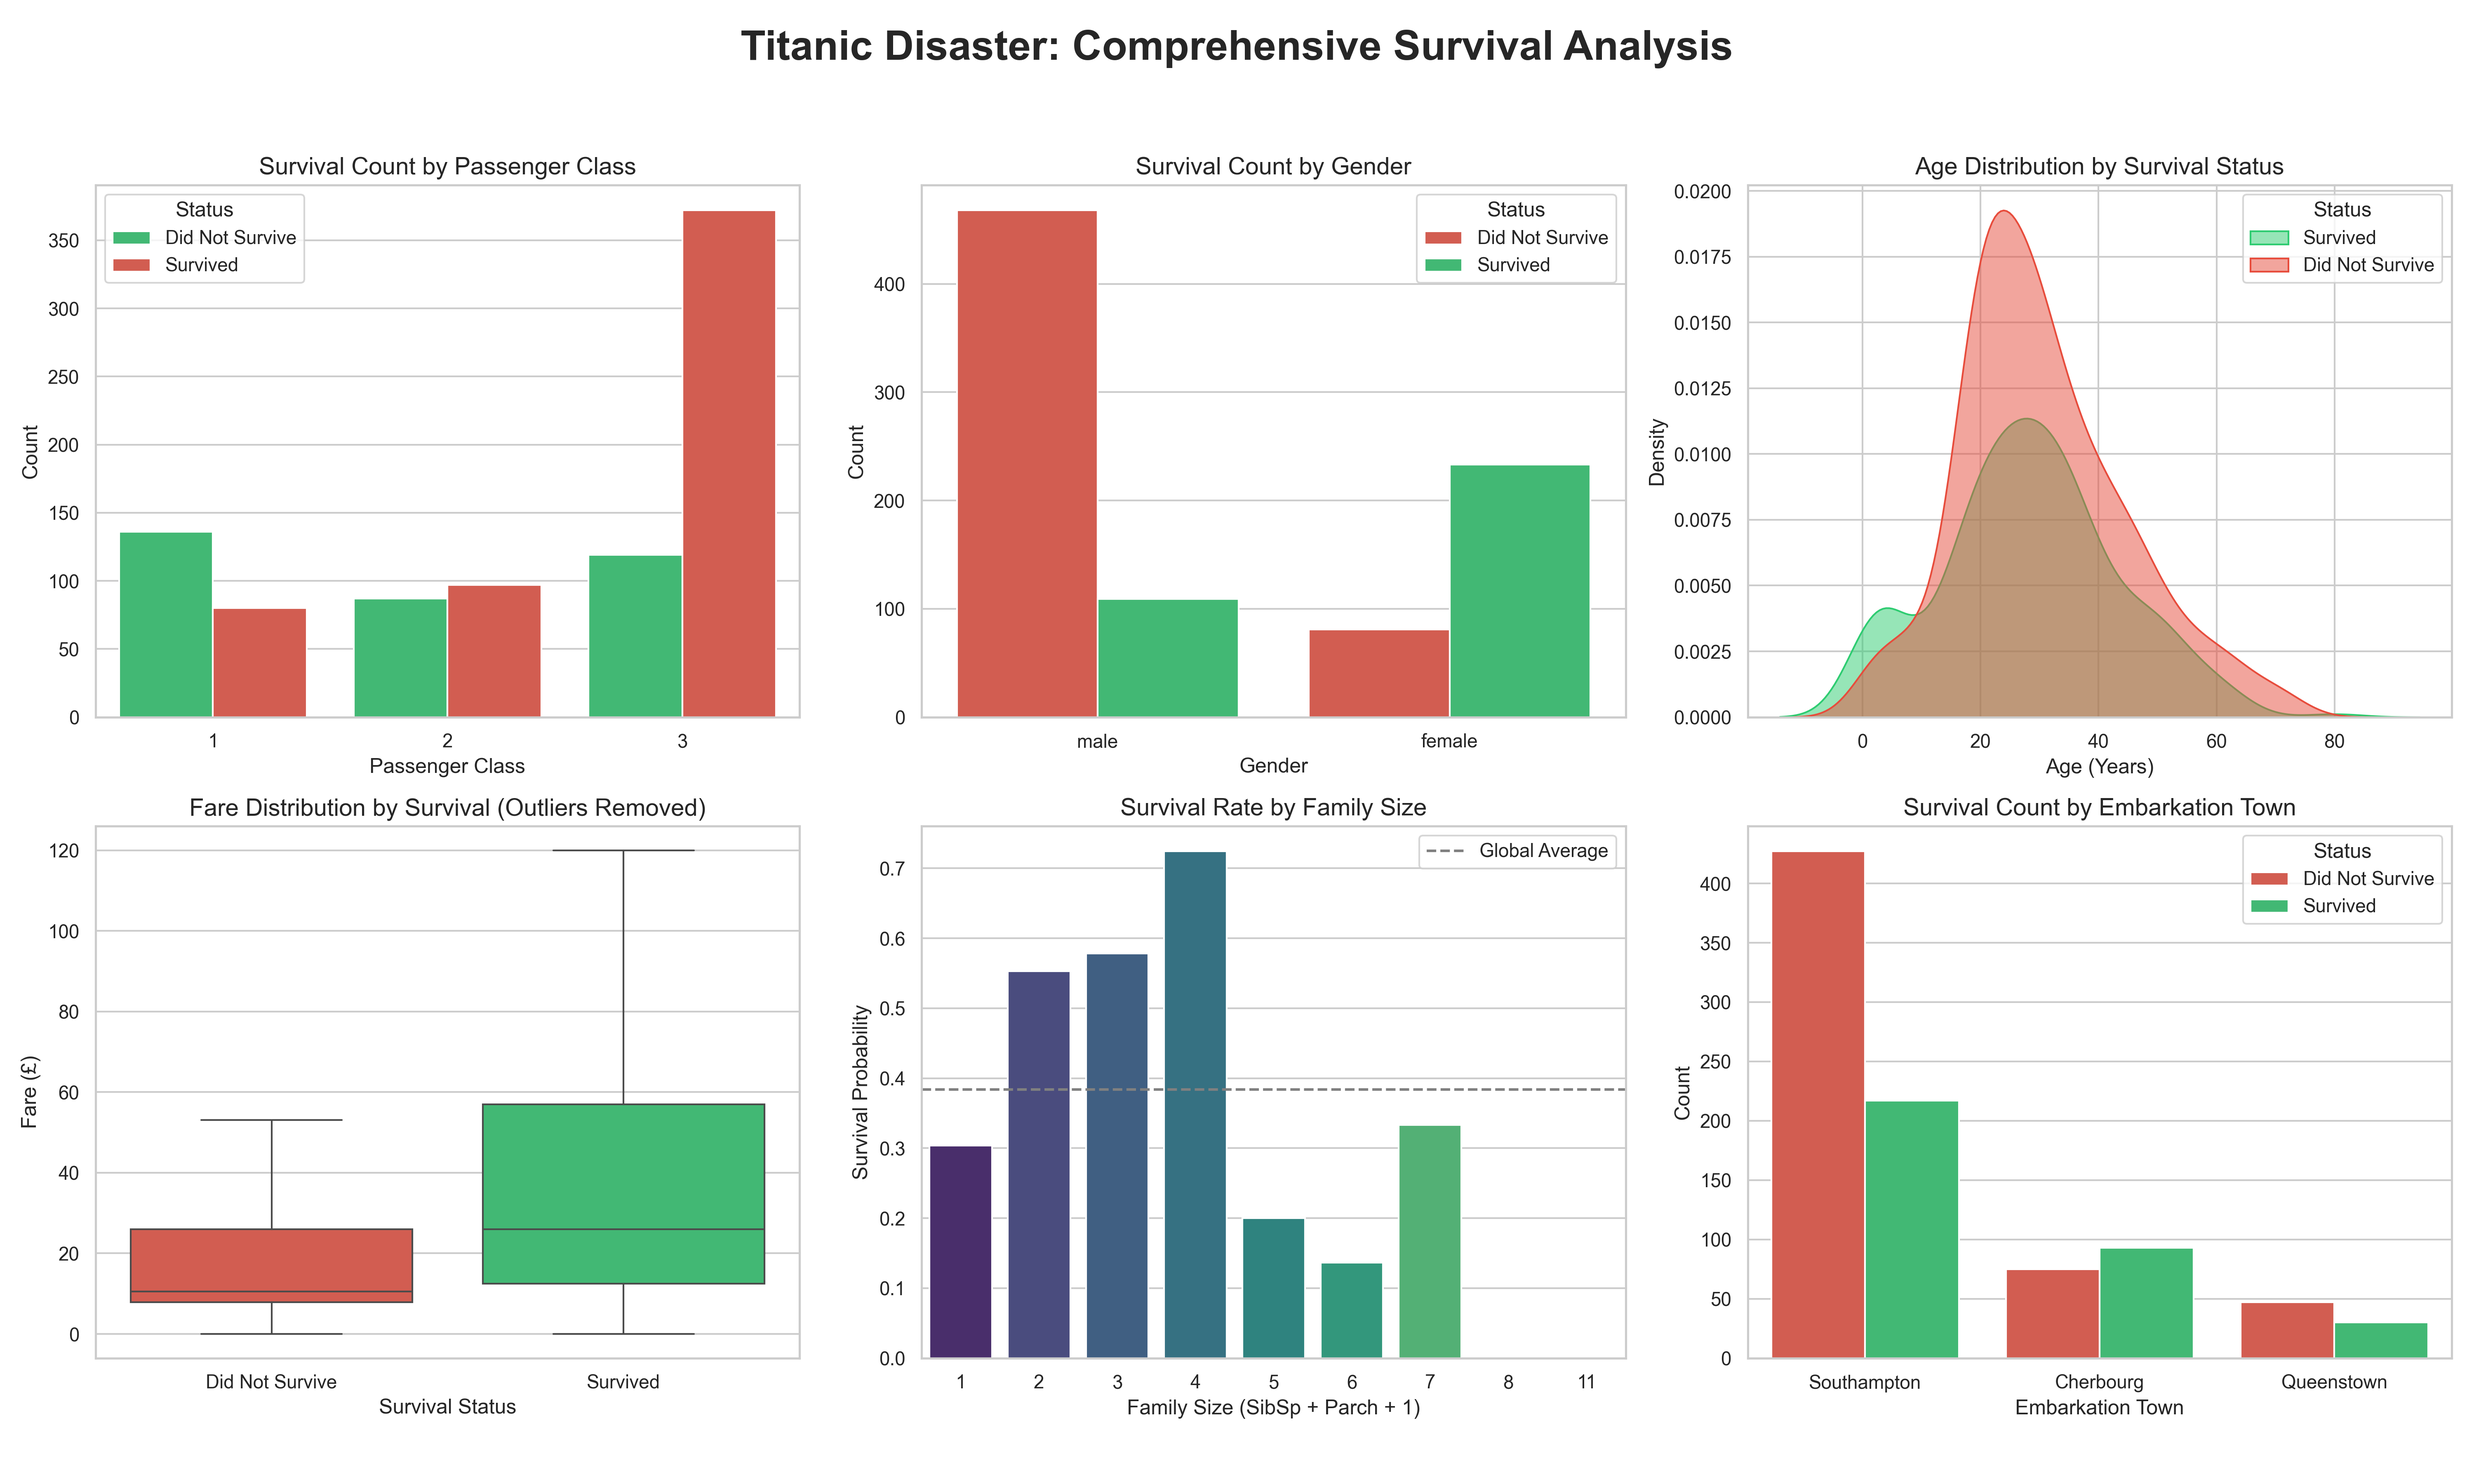
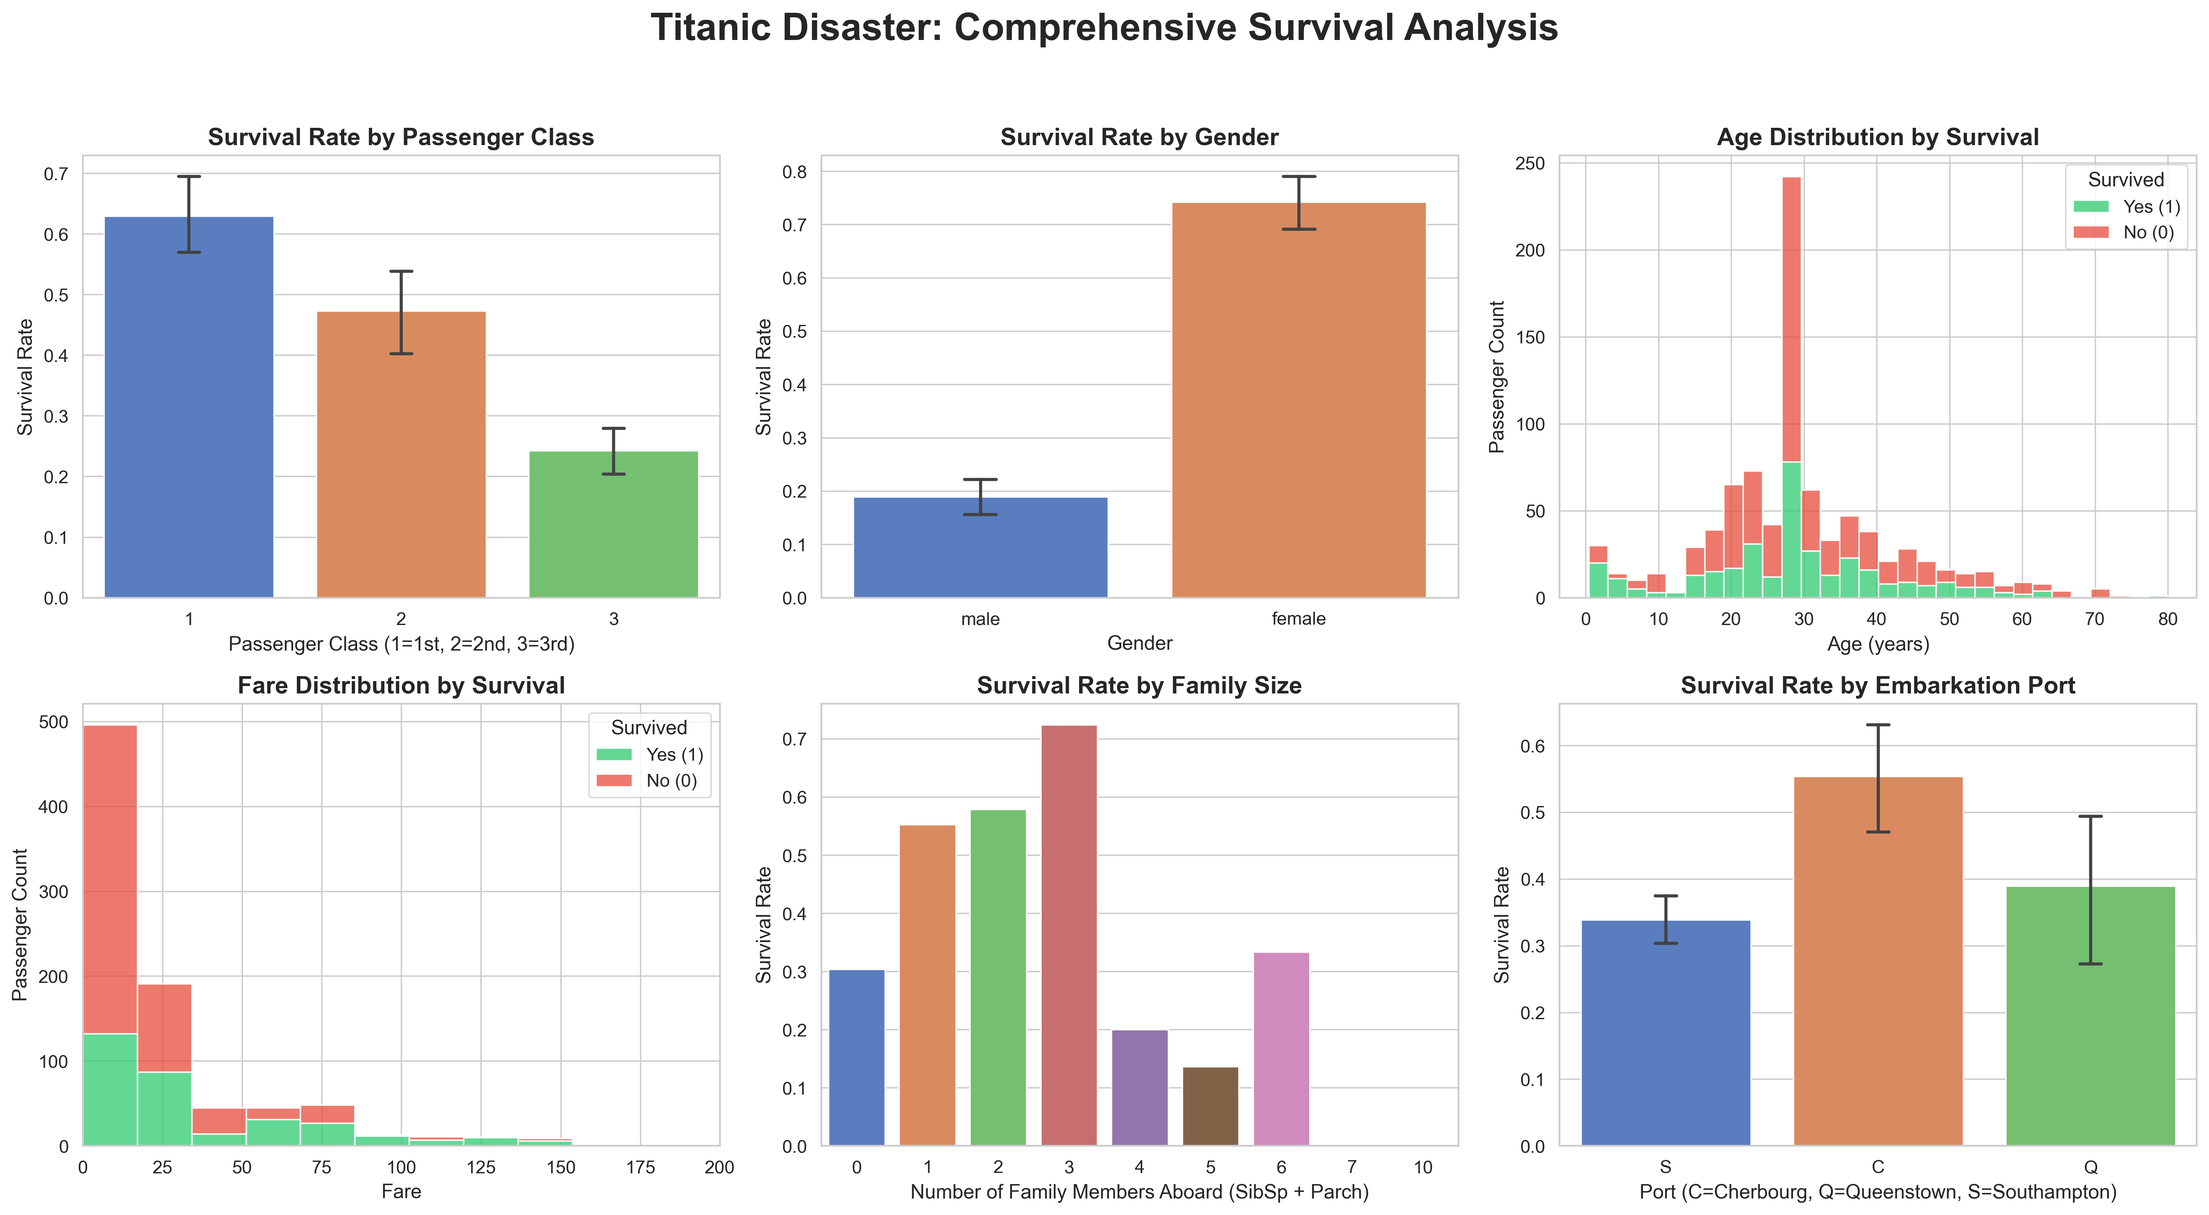
Add Gemini3 Pro Titanic dashboard rich context results (3 runs) | Poor: ΔE=25.51, Entropy=1.263, Exec=1.0 | Rich: ΔE=32.64, Entropy=1.308, Exec=1.0 | Titanic dataset COMPLETE for both models

diff --git a/titanic_results/gemini3_pro/dashboard/run3_rich_context/dashboard_viz_rich_context.py b/titanic_results/gemini3_pro/dashboard/run3_rich_context/dashboard_viz_rich_context.py
@@ -1,0 +1,109 @@
+'''
+Prompt : 
+You are an expert data scientist and visualization specialist.
+
+## Dataset Context:
+The Titanic dataset contains passenger information from the RMS Titanic disaster of 1912.
+This is a sociodemographic dataset with approximately 891 passenger records.
+
+## Dataset Schema (IMPORTANT: All column names are lowercase):
+- survived: Survival status (0 = No, 1 = Yes)
+- pclass: Passenger class (1 = 1st, 2 = 2nd, 3 = 3rd)
+- sex: Gender (male/female)
+- age: Age in years (float, some missing values ~20%)
+- sibsp: Number of siblings/spouses aboard
+- parch: Number of parents/children aboard
+- fare: Passenger fare (float)
+- embarked: Port of embarkation (C = Cherbourg, Q = Queenstown, S = Southampton)
+
+## Technical Requirements:
+- Use Python with matplotlib and seaborn only (no Plotly, no Dash)
+- Load data from 'data/titanic.csv'
+- Handle missing values appropriately
+- Save the final visualization as 'output.png' with DPI=300
+- Include all necessary imports
+- Make the code fully executable
+
+## Your Task: Comprehensive Titanic Dashboard
+Create a multi-panel dashboard showing multiple different aspects of the Titanic data.
+
+## Specific Requirements:
+- Use subplots to create a 2x3 or 3x2 dashboard layout
+- Include: survival by class, by gender, age distribution, fare distribution, family size, embarkation
+- Make it publication-ready with consistent styling
+- Add a main title: "Titanic Disaster: Comprehensive Survival Analysis"
+- Ensure all subplots are properly labeled
+
+Provide ONLY the Python code wrapped in triple backticks.
+'''
+
+import pandas as pd
+import matplotlib.pyplot as plt
+import seaborn as sns
+import os
+
+# Set visualization style
+sns.set_theme(style="whitegrid")
+
+# Load data (handles both specified and actual file paths)
+file_path = 'data/titanic.csv' if os.path.exists('data/titanic.csv') else 'titanic.csv'
+df = pd.read_csv(file_path)
+
+# Handle missing values
+df['age'] = df['age'].fillna(df['age'].median())
+df['embarked'] = df['embarked'].fillna(df['embarked'].mode()[0])
+df['fare'] = df['fare'].fillna(df['fare'].median())
+
+# Create family size feature
+df['family_size'] = df['sibsp'] + df['parch'] + 1
+
+# Create figure and axes for a 2x3 dashboard
+fig, axes = plt.subplots(2, 3, figsize=(18, 12))
+fig.suptitle("Titanic Disaster: Comprehensive Survival Analysis", fontsize=22, fontweight='bold', y=0.98)
+
+# 1. Survival by Passenger Class
+sns.barplot(data=df, x='pclass', y='survived', hue='pclass', ax=axes[0, 0], palette='viridis', errorbar=None, legend=False)
+axes[0, 0].set_title('Survival Rate by Passenger Class', fontsize=14)
+axes[0, 0].set_xlabel('Passenger Class (1=1st, 2=2nd, 3=3rd)', fontsize=12)
+axes[0, 0].set_ylabel('Survival Rate', fontsize=12)
+
+# 2. Survival by Gender
+sns.barplot(data=df, x='sex', y='survived', hue='sex', ax=axes[0, 1], palette='Set2', errorbar=None, legend=False)
+axes[0, 1].set_title('Survival Rate by Gender', fontsize=14)
+axes[0, 1].set_xlabel('Gender', fontsize=12)
+axes[0, 1].set_ylabel('Survival Rate', fontsize=12)
+
+# 3. Age Distribution by Survival
+sns.histplot(data=df, x='age', hue='survived', multiple='stack', ax=axes[0, 2], palette=['#e74c3c', '#2ecc71'], bins=30)
+axes[0, 2].set_title('Age Distribution by Survival', fontsize=14)
+axes[0, 2].set_xlabel('Age (Years)', fontsize=12)
+axes[0, 2].set_ylabel('Passenger Count', fontsize=12)
+legend = axes[0, 2].get_legend()
+if legend:
+    legend.set_title('Survived')
+
+# 4. Fare Distribution by Survival (using log scale due to skewness)
+df['fare_adjusted'] = df['fare'] + 1 # Add 1 to handle 0 fares in log scale
+sns.histplot(data=df, x='fare_adjusted', hue='survived', multiple='stack', ax=axes[1, 0], palette=['#e74c3c', '#2ecc71'], bins=30, log_scale=True)
+axes[1, 0].set_title('Fare Distribution by Survival (Log Scale)', fontsize=14)
+axes[1, 0].set_xlabel('Fare (+1)', fontsize=12)
+axes[1, 0].set_ylabel('Passenger Count', fontsize=12)
+
+# 5. Survival Rate by Family Size
+sns.barplot(data=df, x='family_size', y='survived', hue='family_size', ax=axes[1, 1], palette='coolwarm', errorbar=None, legend=False)
+axes[1, 1].set_title('Survival Rate by Family Size', fontsize=14)
+axes[1, 1].set_xlabel('Total Family Size Aboard', fontsize=12)
+axes[1, 1].set_ylabel('Survival Rate', fontsize=12)
+
+# 6. Survival Rate by Embarkation Port
+sns.barplot(data=df, x='embarked', y='survived', hue='embarked', ax=axes[1, 2], palette='pastel', errorbar=None, legend=False)
+axes[1, 2].set_title('Survival Rate by Embarkation Port', fontsize=14)
+axes[1, 2].set_xlabel('Port (C=Cherbourg, Q=Queenstown, S=Southampton)', fontsize=12)
+axes[1, 2].set_ylabel('Survival Rate', fontsize=12)
+
+# Adjust layout to prevent overlapping
+plt.tight_layout(rect=[0, 0, 1, 0.96])
+
+# Save the final publication-ready visualization
+plt.savefig('titanic_results/gemini3_pro/dashboard/run3_rich_context/dashboard_viz_rich_context_output.png', dpi=300, bbox_inches='tight')
+plt.close()

diff --git a/titanic_results/gemini3_pro/dashboard/run2_rich_context/dashboard_viz_rich_context.py b/titanic_results/gemini3_pro/dashboard/run2_rich_context/dashboard_viz_rich_context.py
@@ -123,6 +123,5 @@ axes[1, 2].set_ylabel("Survival Rate")
 plt.tight_layout(rect=[0, 0, 1, 0.95])
 
 # Save the multi-panel dashboard directly to file
-plt.savefig('titanic_results/gemini3_pro/dashboard/run1_rich_context/dashboard_viz_rich_context_output.png', dpi=300, bbox_inches='tight')
+plt.savefig('titanic_results/gemini3_pro/dashboard/run2_rich_context/dashboard_viz_rich_context_output.png', dpi=300, bbox_inches='tight')
 plt.close()
-
